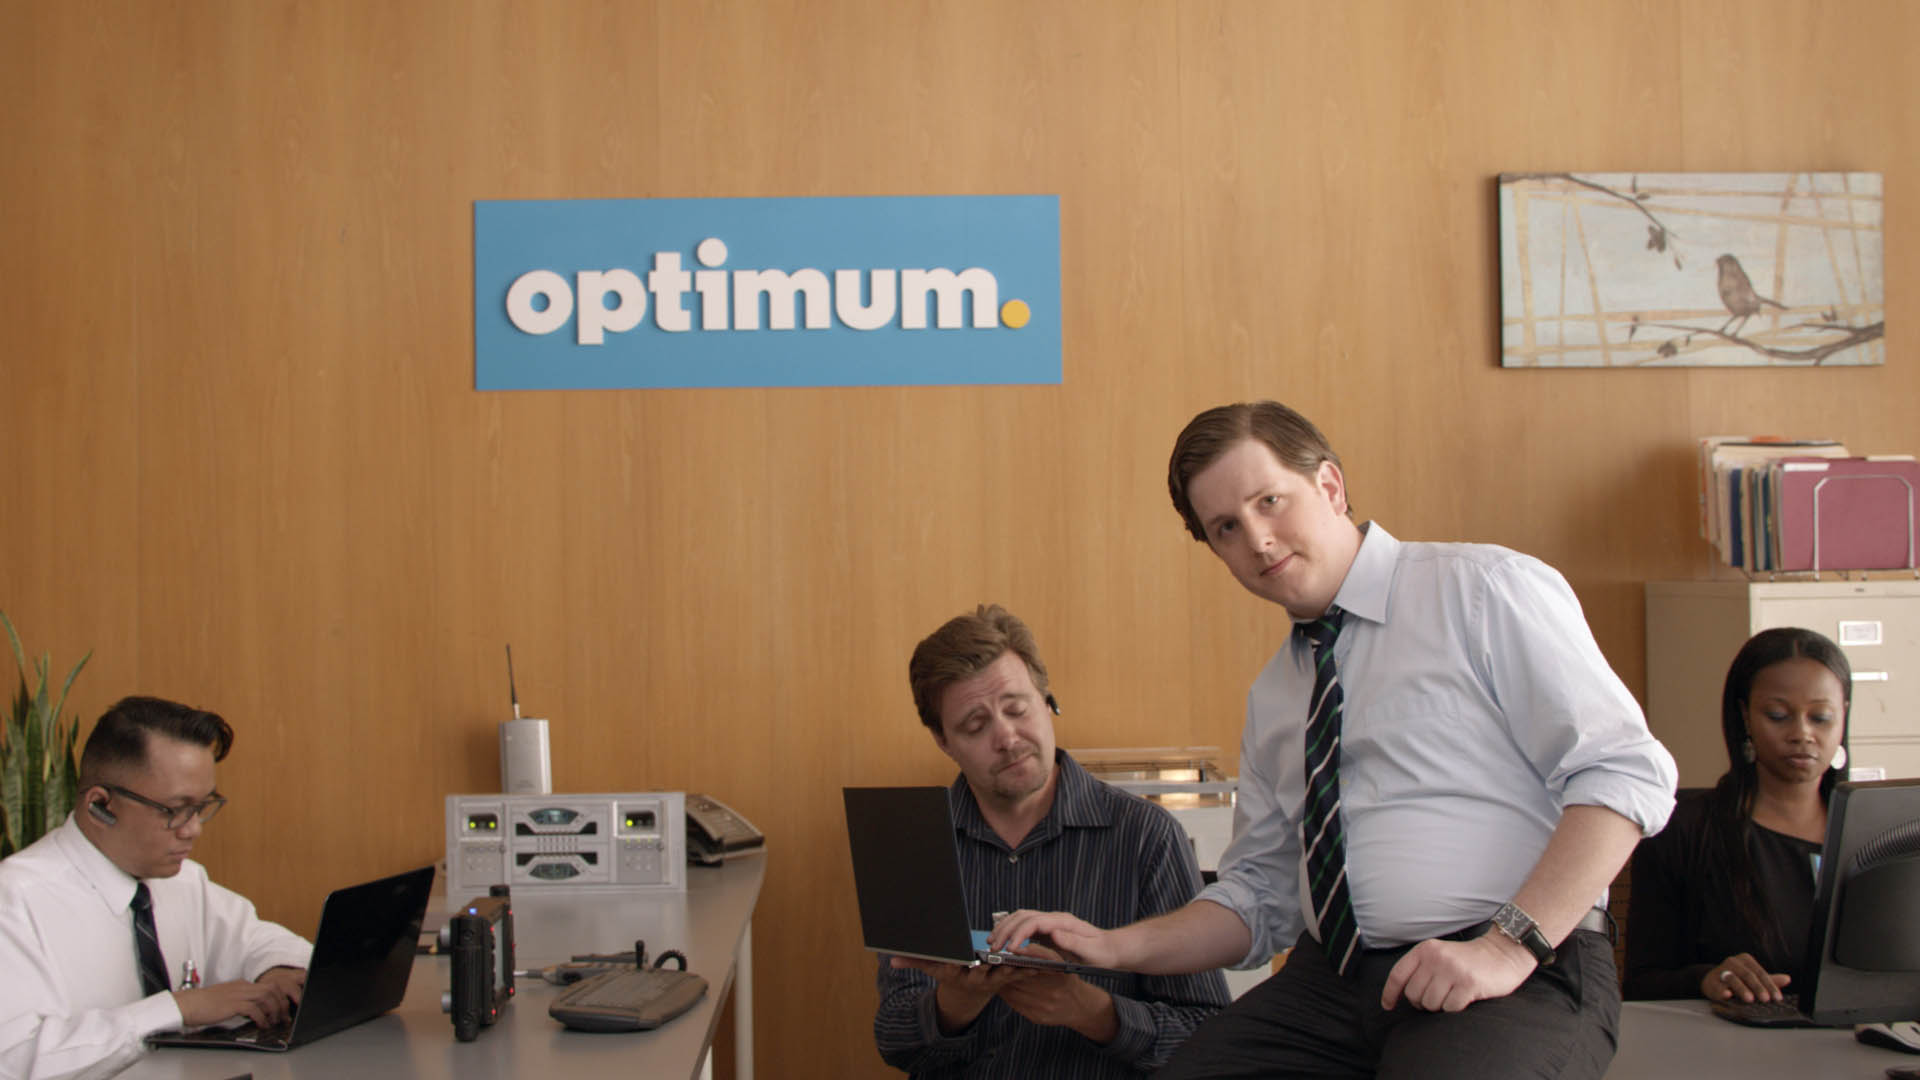
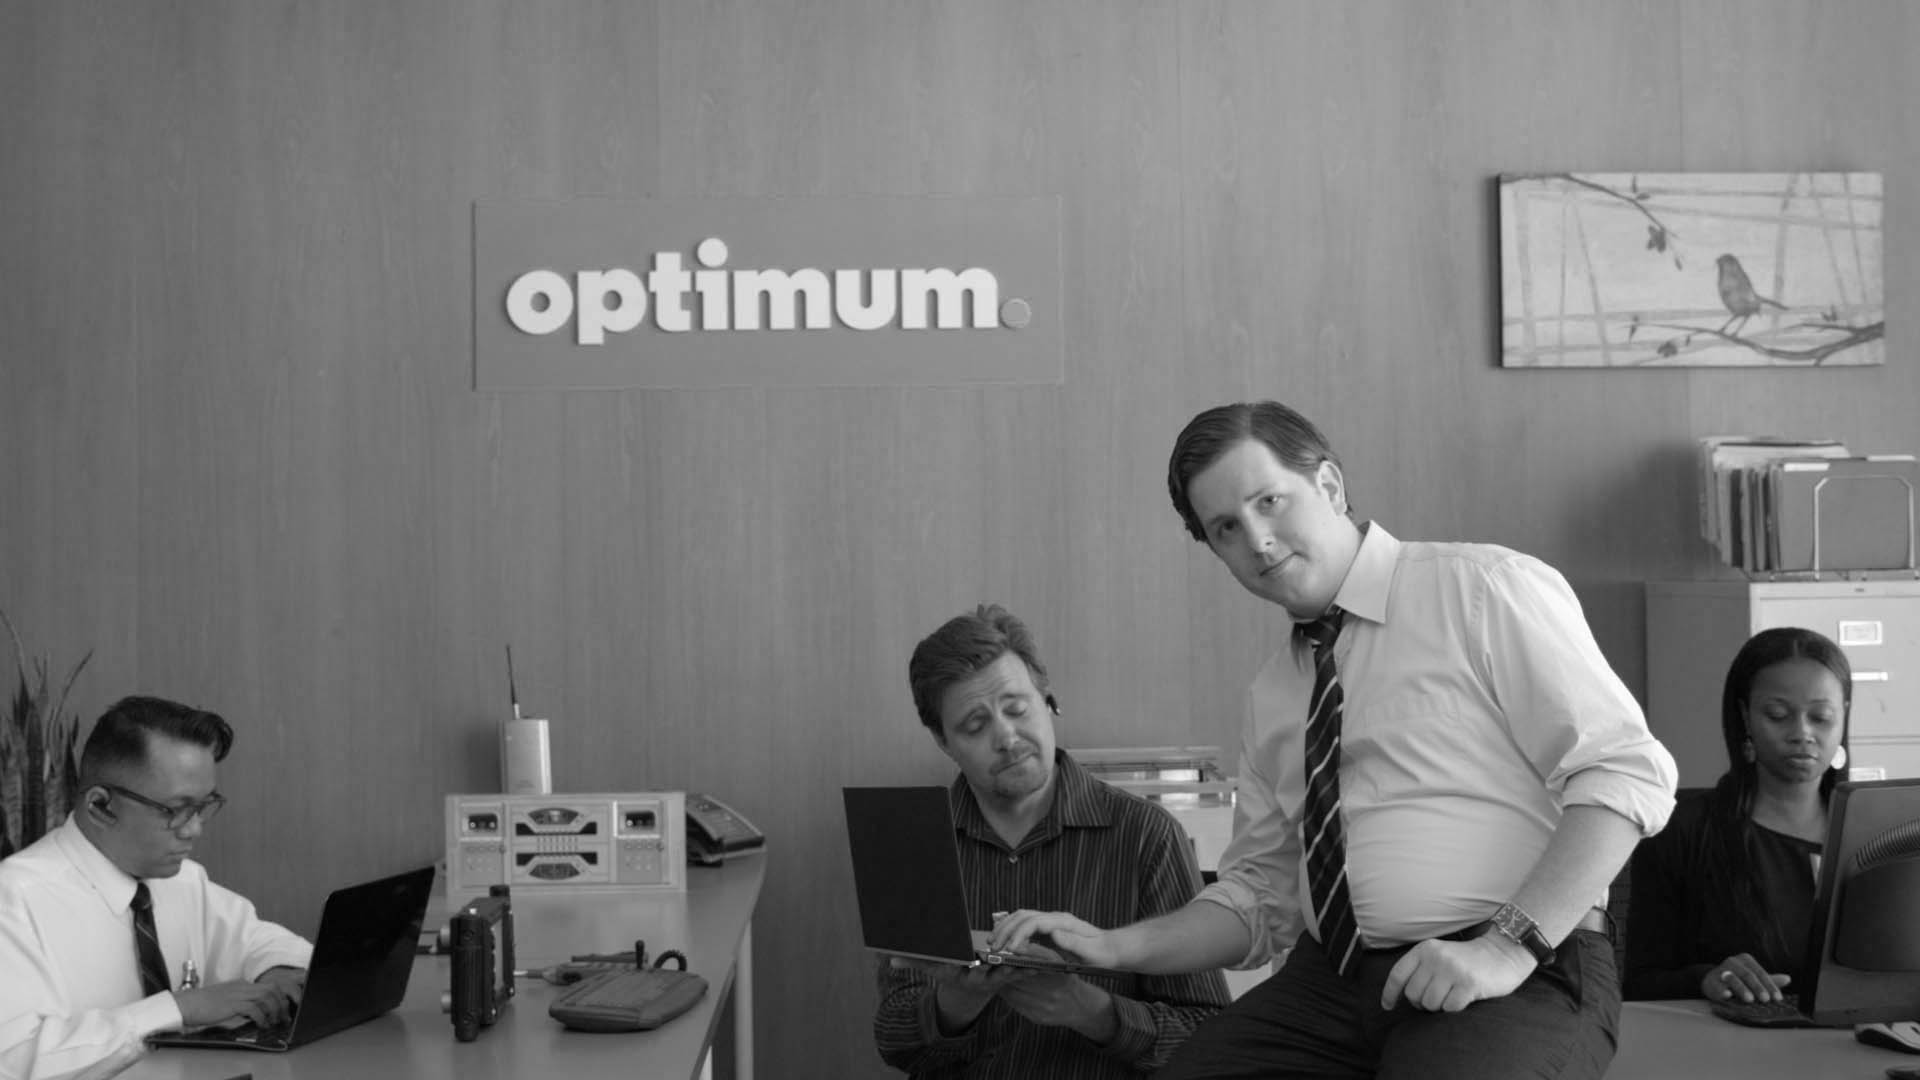
randomize slideshow

diff --git a/public/js/custom.js b/public/js/custom.js
@@ -54,23 +54,35 @@
 			$(".js-height-full").height($(window).height());
 		});
 
-		$('#home').backstretch([
-			'images/background/3813032914CHYH_2K_60_C02_2398.jpg',
-			'images/background/CFHF0002000H_C07_2398.jpg',
-			'images/background/JAY_30_C03_2398H.jpg',
-			'images/background/MBUSA_53_C11_2398.jpg',
-			'images/background/MIDWULS_1_60_C12A_2398H.jpg',
-			'images/background/NBAI5821H_C10_2398.jpg',
-			'images/background/NBCU9037H.ASTRO.NBC_DATELINE.30.C12.2398H.jpg',
+		//+ Jonas Raoni Soares Silva
+		//@ http://jsfromhell.com/array/shuffle [v1.0]
+		function shuffle(o){ //v1.0
+		    for(var j, x, i = o.length; i; j = Math.floor(Math.random() * i), x = o[--i], o[i] = o[j], o[j] = x);
+		    return o;
+		};
+
+		var imageArray = [
+			'images/background/YVWN4090000H_60_C06_2398.jpg',
 			'images/background/NHTSA_WEB_ENG_30_C15_2398H.jpg',
+			'images/background/XVSR3015H_30_C01_2398.jpg',
 			'images/background/PBTV2014018H_30_C03_2398.jpg',
 			'images/background/RIA_30_C05_2398H_V09.jpg',
-			'images/background/ROCKET_45_C03_2398.jpg',
-			'images/background/RPFR3015000H_30_C04_2398.jpg',
-			'images/background/XVSR3015H_30_C01_2398.jpg',
+			'images/background/JAY_30_C03_2398H.jpg',
+			'images/background/CFHF0002000H_C07_2398.jpg',
+			'images/background/MBUSA_53_C11_2398.jpg',
+			'images/background/MIDWULS_1_60_C12A_2398H.jpg',
 			'images/background/YMYM021000H_C11_60_2398H.jpg',
-			'images/background/YVWN4090000H_60_C06_2398.jpg'
-		], {duration: 3000, fade: 750});
+			'images/background/NBAI5821H_C10_2398.jpg',
+			'images/background/3813032914CHYH_2K_60_C02_2398.jpg',
+			'images/background/RPFR3015000H_30_C04_2398.jpg',
+			'images/background/NBCU9037H.ASTRO.NBC_DATELINE.30.C12.2398H.jpg',
+			'images/background/ROCKET_45_C03_2398.jpg'
+		];
+
+		var shuffledImages = shuffle(imageArray);
+
+		// Load images
+		$('#home').backstretch(imageArray, {duration: 3000, fade: 750});
 
 
 		/* ---------------------------------------------- /*

diff --git a/public/css/custom.css b/public/css/custom.css
@@ -12,6 +12,21 @@
   height: 100%;
 }
 
+.color-cover {
+  position: absolute;
+  top: 0;
+  left: 0;
+  width: 100%;
+  height: 100%;
+  z-index: -200;
+  background: url(../images/tweed_@2X.png) repeat center center fixed !important; 
+  -webkit-background-size: cover;
+  -moz-background-size: cover;
+  -o-background-size: cover;
+  background-size: cover;
+  opacity: 0.7;
+}
+
 .backstretch {
-  opacity: 0.8;
+  opacity: 0.5;
 }

diff --git a/public/css/style.css b/public/css/style.css
@@ -470,11 +470,7 @@ textarea.form-control {
 
 #home {
 	padding: 0;
-	background: url(../images/tweed_@2X.png) repeat center center fixed !important; 
-  -webkit-background-size: cover;
-  -moz-background-size: cover;
-  -o-background-size: cover;
-  background-size: cover;
+	background: black;
 }
 
 .intro {

diff --git a/README.md b/README.md
@@ -1,14 +1,16 @@
 #TODO
 
 ##MITCH
-- randomize slideshow
-- blue/grey layer over sideshow pictures
+[x] load movies
+[x] slideshow
+[x] randomize slideshow
+[x] blue/grey layer over sideshow pictures
 
 ##TCHYA
-- write copy
+[ ] write copy
 
 ##LONGTERM MITCH
-- build out login process
-- allow users to edit/delete slideshow images
-- allow users to edit/delete reels
-- allow users to edit/delete copy
+[ ] build out login process
+[ ] allow users to edit/delete slideshow images
+[ ] allow users to edit/delete reels
+[ ] allow users to edit/delete copy
